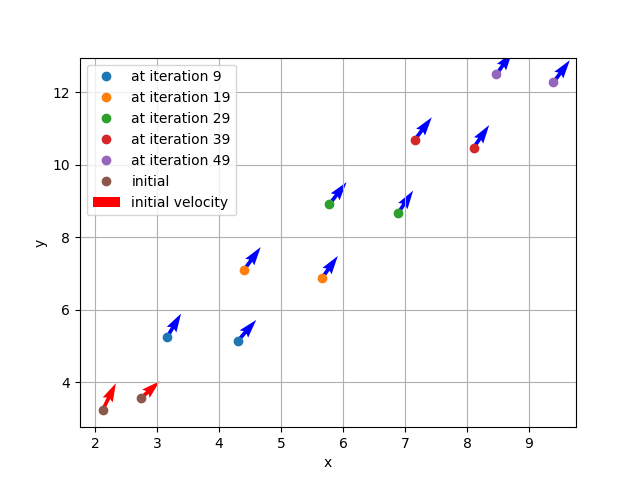
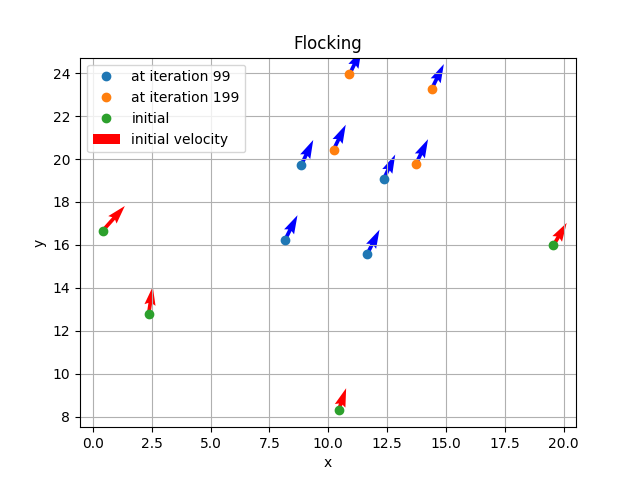
can change the scaling

diff --git a/control_test.py b/control_test.py
@@ -8,34 +8,38 @@ from utils import *
 
 # fix the random seed
 np.random.seed(0)
-n_agents=2
+n_agents=4
 nx_system=4
 dt=0.05
+initial_sep=3.1
 
 valid_init=False
 while not valid_init:
-    x_init=init(n_agents,nx_system, type='random')*5
+    x_init=init(n_agents,nx_system, type='random')
+    x_init[:,:2]=x_init[:,:2]*20
     # check if the initial condition is valid
     valid_init=True
     for i in range(n_agents):
         for j in range(i+1,n_agents):
-            if np.linalg.norm(x_init[i,:2]-x_init[j,:2])<0.1:
+            if np.linalg.norm(x_init[i,:2]-x_init[j,:2])<initial_sep:
                 valid_init=False
                 break
 
 
-iterations=50
+iterations=200
 x=copy.deepcopy(x_init)
+diff_history=[]
 for i in range(iterations):
     # calculate the input for control
     diff = x.reshape((n_agents, 1, nx_system)) - x.reshape(
                 (1, n_agents, nx_system))
+    diff_history.append(diff)
     r2 = np.multiply(diff[:, :, 0], diff[:, :, 0]) + np.multiply(diff[:, :, 1],diff[:, :, 1])
 
     u=controller_centralized(diff, r2)
     # upate the state
     x=numerical_solution_state1(x, u, dt)
-    if (i+1)%10==0:
+    if (i+1)%100==0:
         # visualize the end station
         plt.plot(x[:,0],x[:,1],'o',label=f'at iteration {i}')
         # add quiver
@@ -51,5 +55,30 @@ plt.legend()
 plt.grid()
 plt.xlabel('x')
 plt.ylabel('y')
+plt.title('Flocking')
 plt.savefig('./flocking.png')
+plt.clf()
+diff_history=np.array(diff_history)
+# make two subplots
+fig,axs = plt.subplots(2,1,figsize=(10,8))
+axs = np.ravel(axs)
+for node_i in range(n_agents):
+    for node_j in range(n_agents):
+        if node_i!=node_j and node_i<node_j:
+            # norm position difference
+            axs[0].plot(np.linalg.norm(diff_history[:,node_i,node_j,:2],axis=1),label=f'position diff {node_i}_{node_j}')
+            axs[1].plot(np.linalg.norm(diff_history[:,node_i,node_j,2:],axis=1),'.', label=f'velocity diff {node_i}_{node_j}')
+
+axs[0].legend()
+axs[1].legend()
+axs[0].set_title('position diff')
+axs[1].set_title('velocity diff')
+
+plt.xlabel('iterations')
+axs[0].set_ylabel('diff norm')
+axs[1].set_ylabel('diff norm')
+axs[0].grid()
+axs[1].grid()
+plt.savefig('./trajectory_convergence.png')
+
 

diff --git a/utils.py b/utils.py
@@ -52,10 +52,14 @@ def potential_grad(pos_diff, r2):
     Returns: corresponding component of the gradient of the potential
 
     """
-    r2_2 = np.multiply(r2, r2)
+    r=np.sqrt(r2)
+    # now shift r to manipulate the distance
+    r=r/4.0
     # r2_2=np.nan_to_num(r2_2,nan=np.Inf)
-    grad = -1.0 * np.divide(pos_diff, r2_2) + 1 * np.divide(pos_diff, r2)
-    # grad[r2 > 100.0] = 0
+    # grad = -1.0 * np.divide(pos_diff, r2*r2) + 1 * np.divide(pos_diff, r2)
+    grad = -1.0 * np.divide(pos_diff, r**3) + 1 * np.divide(pos_diff, r)
+    # grad = -1.0 * np.divide(pos_diff, r2) + 1 * np.divide(pos_diff, r)
+    # grad[r > 1.0] = 0
     return grad*2.0
 
 def controller_centralized(diff, r2 ):
@@ -68,6 +72,7 @@ def controller_centralized(diff, r2 ):
     # self dist is not considered
     np.fill_diagonal(r2, np.Inf)
     potentials = np.dstack((diff, potential_grad(diff[:, :, 0], r2), potential_grad(diff[:, :, 1], r2)))
+
     # potentials = np.nan_to_num(potentials, nan=0.0)  # fill nan with 0
 
 

diff --git a/potential_test.py b/potential_test.py
@@ -1,0 +1,30 @@
+# from flocking_relative_st import Flocking
+import numpy as np
+import matplotlib.pyplot as plt
+import time
+import copy
+from utils import *
+
+
+# fix the random seed
+np.random.seed(0)
+n_agents=2
+nx_system=4
+dt=0.05
+
+# get 100 points on x
+x=np.linspace(0.6,3,100)
+ax=x
+x=x-0.5 # shift on x to right, 
+u=1/x**2 + np.log(x)
+grad=-2/x**3 + 2/x
+plt.plot(ax,u,label='potential function')
+plt.plot(ax,grad,label='gradient')
+plt.grid()
+plt.title('Potential function. Shift r by -0.5')
+plt.xlabel('r')
+plt.ylabel('u')
+plt.ylim(-30,10)
+plt.legend()
+plt.savefig('./potential_func.png')
+
